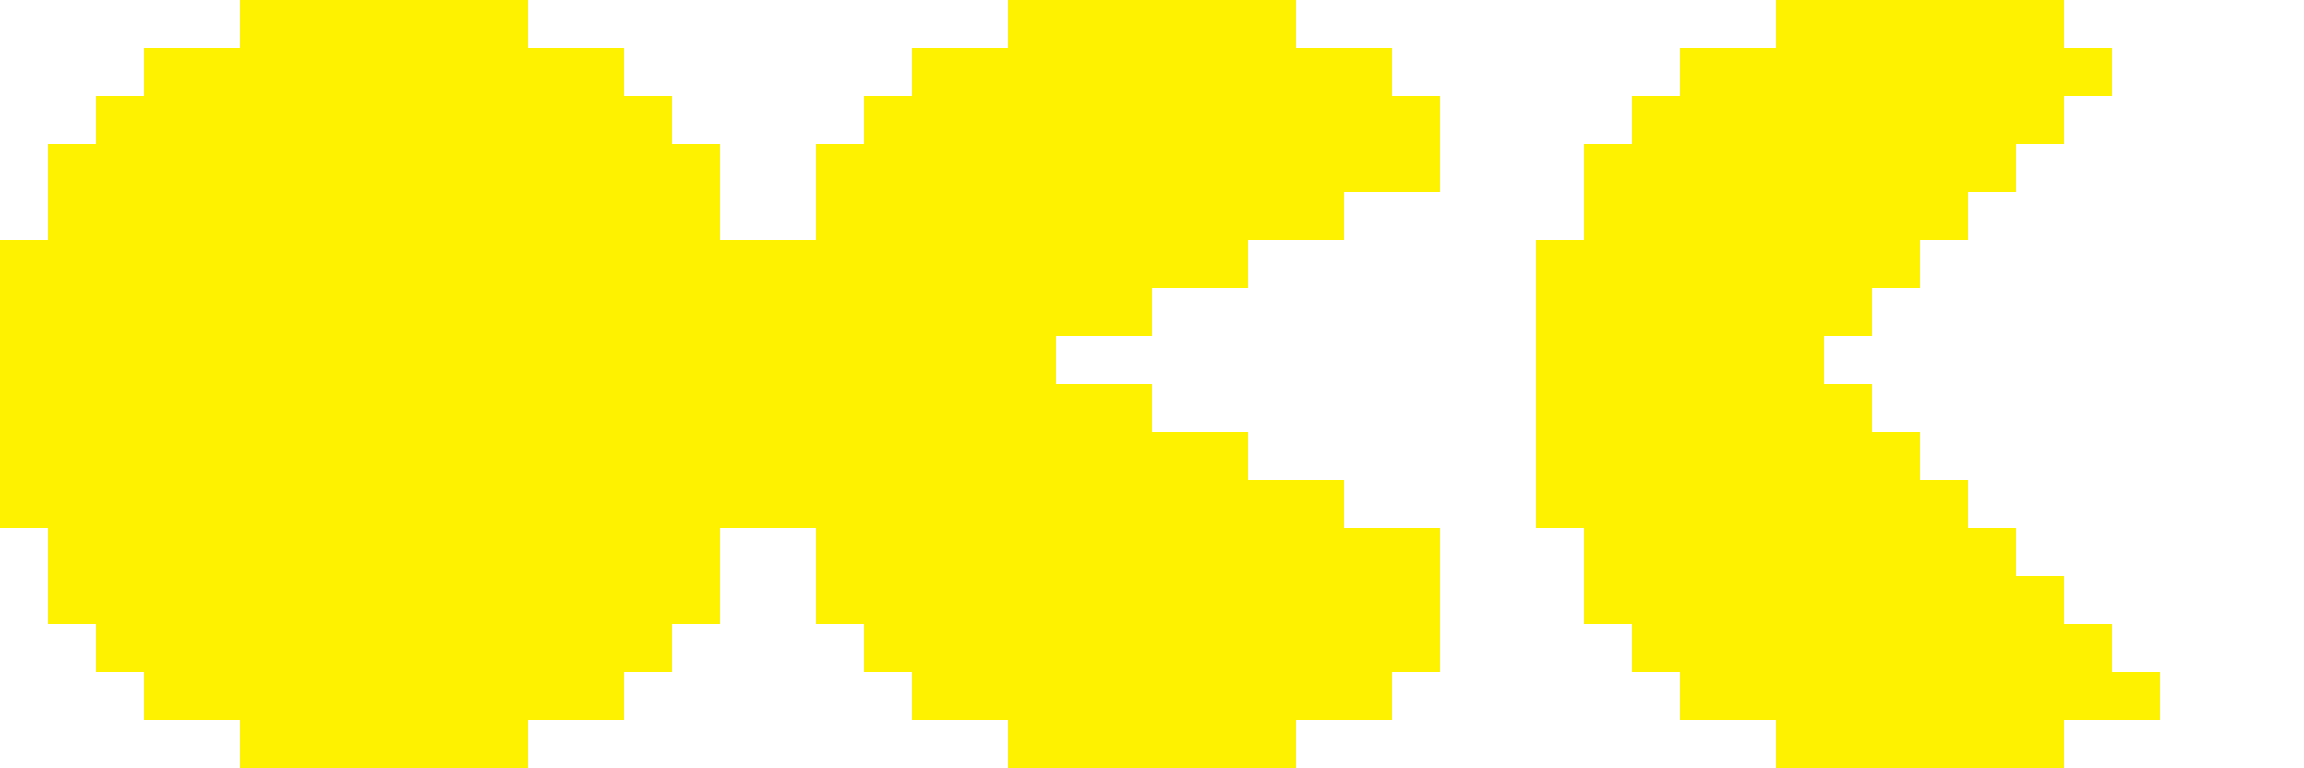
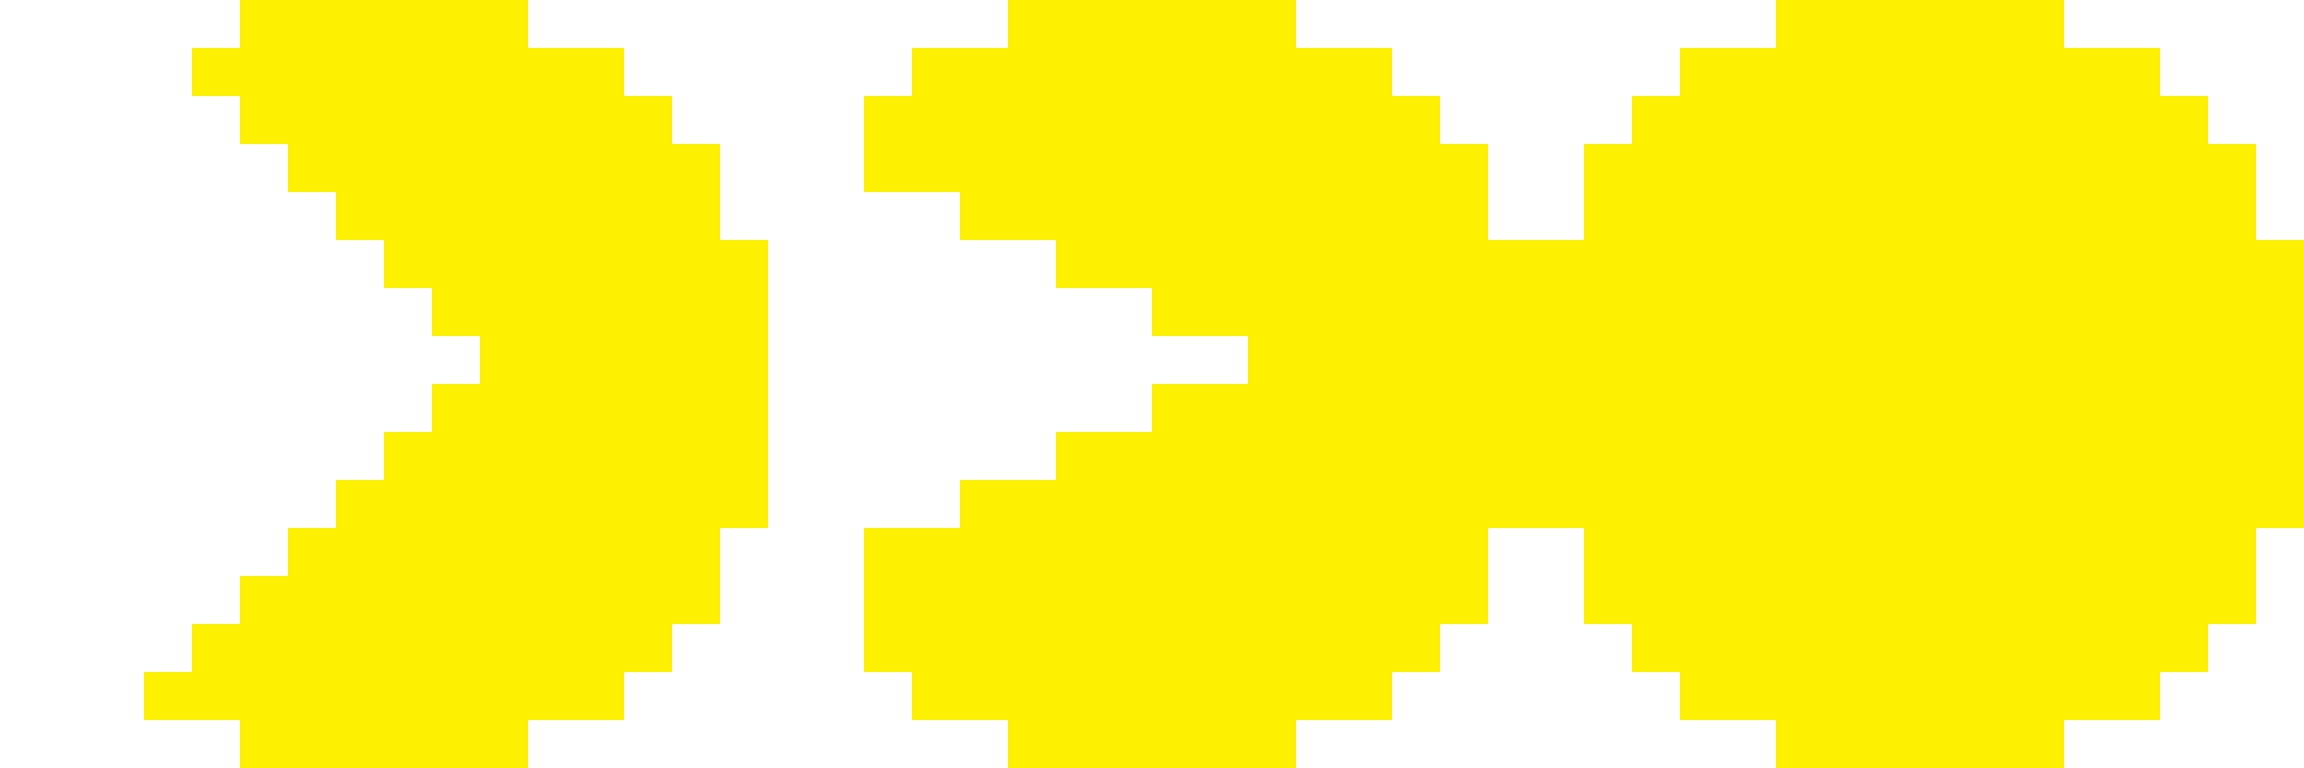
aint noting work

diff --git a/M Topic 5 - Monster Class/Player.cs b/M Topic 5 - Monster Class/Player.cs
@@ -5,75 +5,118 @@ using Microsoft.Xna.Framework;
 using System.Linq;
 using System.Text;
 using System.Threading.Tasks;
+using Microsoft.Xna.Framework.Input;
 
 namespace M_Topic_5___Monster_Class
 {
     public class Player
     {
-        private Texture2D texture;
-        private Rectangle rectangle;
-        private Vector2 speed, origin;
-        private float rotation;
+        private Texture2D _texture;
+        private Rectangle _rectangle;
+        private Vector2 _speed, _origin;
+        private float _rotation;
+        private SpriteEffects _spritebatchEffect;
 
-        private int frame = 0;
-        private List<Rectangle> sourceRects;
 
-        public Player(Texture2D _texture, Rectangle _rectangle, Vector2 _speed, int _frame, float _rotation) 
+        private int _frame = 0;
+        private List<Rectangle> _sourceRects;
+
+        public Player(Texture2D texture, Rectangle rectangle, Vector2 speed, int frame, float rotation) 
         { 
-            texture = _texture;
-            rectangle = _rectangle;
-            speed = _speed;
-            frame = _frame;
-            rotation = _rotation;
+            _texture = texture;
+            _rectangle = rectangle;
+            _speed = speed;
+            _frame = frame;
+            _rotation = rotation;
+            _spritebatchEffect = SpriteEffects.None;
+            Initialize();
+
         }
 
-        public int Frame { get { return frame; } }
+        public bool Intersects(Rectangle rect)
+        {
+            return _rectangle.Intersects(rect);
+        }
 
         public Vector2 Speed
         {
-            get { return speed; }
-            set { speed = value; }
+            get { return _speed; }
+            set { _speed = value; }
         }
-
-        public Rectangle Rectangle { get { return rectangle; } }
-
-        public Rectangle Source { get { return sourceRects[frame]; } }
 
         public Texture2D Texture 
         { 
-            get { return texture; } 
-            set { texture = value; }
+            get { return _texture; } 
+            set { _texture = value; }
         }
 
         public float Rotation
         {
-            get { return rotation; }
-            set { rotation = value; }
+            get { return _rotation; }
+            set { _rotation = value; }
         }
 
-        public Vector2 Origin { get { return origin; } }
+        public Vector2 Origin { get { return _origin; } }
 
         public void Initialize()
         {
-            sourceRects = new List<Rectangle>();
+            _sourceRects = new List<Rectangle>();
             for (int i = 2; i > -1; i--)
             {
-                sourceRects.Add(new Rectangle((i * 768), 0, 768, 768));
+                _sourceRects.Add(new Rectangle((i * 768), 0, 768, 768));
             }
-
-            origin = new Vector2(rectangle.Width / 2, rectangle.Height / 2);
         }
 
-        public void Offset()
+        public void Offset(KeyboardState keyboardState)
         {
-            rectangle.X += (int)speed.X;
-            rectangle.Y += (int)speed.Y;
+            if (keyboardState.IsKeyDown(Keys.W) && keyboardState.IsKeyDown(Keys.S))
+                _speed = new Vector2(_speed.X, 0);
+            if (keyboardState.IsKeyDown(Keys.W))
+                _speed = new Vector2(_speed.X, -2);
+            else if (keyboardState.IsKeyDown(Keys.S))
+                _speed = new Vector2(_speed.X, 2);
+            else { _speed = new Vector2(_speed.X, 0); }
+
+            if (keyboardState.IsKeyDown(Keys.A) && keyboardState.IsKeyDown(Keys.D))
+                _speed = new Vector2(0, _speed.Y);
+            else if (keyboardState.IsKeyDown(Keys.A))
+                _speed = new Vector2(-2, _speed.Y);
+            else if (keyboardState.IsKeyDown(Keys.D))
+                _speed = new Vector2(2, _speed.Y);
+            else { _speed = new Vector2(0, _speed.Y); }
+            if (keyboardState.IsKeyDown(Keys.W) && keyboardState.IsKeyDown(Keys.A) ||
+                keyboardState.IsKeyDown(Keys.S) && keyboardState.IsKeyDown(Keys.D))
+                _rotation = 0.785398f;
+            else if (keyboardState.IsKeyDown(Keys.S) && keyboardState.IsKeyDown(Keys.A) ||
+                keyboardState.IsKeyDown(Keys.W) && keyboardState.IsKeyDown(Keys.D))
+                _rotation = -0.785398f;
+            else if (keyboardState.IsKeyDown(Keys.S))
+                _rotation = 1.5708f;
+            else if (keyboardState.IsKeyDown(Keys.W))
+                _rotation = -1.5708f;
+            else if (keyboardState.IsKeyDown(Keys.A) || (keyboardState.IsKeyDown(Keys.D)))
+                _rotation = 0;
+
+
+            _origin = new Vector2(_texture.Width / 2, _texture.Height / 2);      
+
+            _rectangle.X += (int)_speed.X;
+            _rectangle.Y += (int)_speed.Y;
+            if (_speed.X > 0)
+                _spritebatchEffect = SpriteEffects.FlipHorizontally;
+           else if (_speed.X < 0)
+                _spritebatchEffect= SpriteEffects.None;
         }
 
         public void FrameAdvance()
         {
-            frame++;
-            if (frame > 2) { frame = 0; }
+            _frame++;
+            if (_frame > 2) { _frame = 0; }
+        }
+
+        public void Draw(SpriteBatch spriteBatch)
+        {
+            spriteBatch.Draw(_texture, _rectangle, _sourceRects[_frame], Color.White, _rotation, _origin, _spritebatchEffect, 0f);
         }
     }
 }

diff --git a/M Topic 5 - Monster Class/Game1.cs b/M Topic 5 - Monster Class/Game1.cs
@@ -9,10 +9,9 @@ namespace M_Topic_5___Monster_Class
         private GraphicsDeviceManager _graphics;
         private SpriteBatch _spriteBatch;
 
-        Player player = new Player(null, new Rectangle(0, 0, 50, 50), new Vector2(0, 0), 0, 0);
+        Player player;
 
-        Vector2 prevSpeed;
-        KeyboardState keyboardState;
+        Texture2D playerSpriteSheet;
 
         double time;
 
@@ -25,16 +24,15 @@ namespace M_Topic_5___Monster_Class
 
         protected override void Initialize()
         {
-            player.Initialize();
-
             base.Initialize();
+            player = new Player(playerSpriteSheet, new Rectangle(0, 0, 50, 50), new Vector2(0, 0), 0, 0);
         }
 
         protected override void LoadContent()
         {
             _spriteBatch = new SpriteBatch(GraphicsDevice);
 
-            player.Texture = Content.Load<Texture2D>("pacman-sheet");
+            playerSpriteSheet = Content.Load<Texture2D>("pacman-sheet");
         }
 
         protected override void Update(GameTime gameTime)
@@ -42,42 +40,7 @@ namespace M_Topic_5___Monster_Class
             if (GamePad.GetState(PlayerIndex.One).Buttons.Back == ButtonState.Pressed || Keyboard.GetState().IsKeyDown(Keys.Escape))
                 Exit();
 
-            keyboardState = Keyboard.GetState();
-
-
-            if (keyboardState.IsKeyDown(Keys.W) && keyboardState.IsKeyDown(Keys.S))
-                player.Speed = new Vector2(player.Speed.X, 0);
-            if (keyboardState.IsKeyDown(Keys.W))
-                player.Speed = new Vector2(player.Speed.X, -2);
-            else if (keyboardState.IsKeyDown(Keys.S))
-                player.Speed = new Vector2(player.Speed.X, 2);
-            else { player.Speed = new Vector2(player.Speed.X, 0); }
-
-            if (keyboardState.IsKeyDown(Keys.A) && keyboardState.IsKeyDown(Keys.D))
-                player.Speed = new Vector2(0, player.Speed.Y);
-            else if (keyboardState.IsKeyDown(Keys.A))
-                player.Speed = new Vector2(-2, player.Speed.Y);
-            else if (keyboardState.IsKeyDown(Keys.D))
-                player.Speed = new Vector2(2, player.Speed.Y);
-            else { player.Speed = new Vector2(0, player.Speed.Y); }
-
-            if (player.Speed.X != 0)
-                prevSpeed = player.Speed;
-
-            if (keyboardState.IsKeyDown(Keys.W) && keyboardState.IsKeyDown(Keys.A) ||
-                keyboardState.IsKeyDown(Keys.S) && keyboardState.IsKeyDown(Keys.D))
-                player.Rotation = 0.785398f;
-            else if (keyboardState.IsKeyDown(Keys.S) && keyboardState.IsKeyDown(Keys.A) ||
-                keyboardState.IsKeyDown(Keys.W) && keyboardState.IsKeyDown(Keys.D))
-                player.Rotation = -0.785398f;
-            else if (keyboardState.IsKeyDown(Keys.S))
-                player.Rotation = 1.5708f;
-            else if (keyboardState.IsKeyDown(Keys.W))
-                player.Rotation = -1.5708f;
-            else if (keyboardState.IsKeyDown(Keys.A) || (keyboardState.IsKeyDown(Keys.D)))
-                player.Rotation = 0;
-
-                player.Offset();
+            player.Offset(Keyboard.GetState());
 
             time += gameTime.ElapsedGameTime.TotalSeconds;
             if (time > 0.2)
@@ -92,12 +55,7 @@ namespace M_Topic_5___Monster_Class
 
             _spriteBatch.Begin();
 
-            if (prevSpeed.X == -2)
-                _spriteBatch.Draw(player.Texture, player.Rectangle, player.Source, Color.White, player.Rotation,
-                player.Origin, SpriteEffects.FlipHorizontally, 0f);
-            else
-                _spriteBatch.Draw(player.Texture, player.Rectangle, player.Source, Color.White, player.Rotation,
-                new Vector2(player.Rectangle.Width / 2, player.Rectangle.Height / 2), SpriteEffects.None, 0f);
+            player.Draw(_spriteBatch);
 
             _spriteBatch.End();
 
